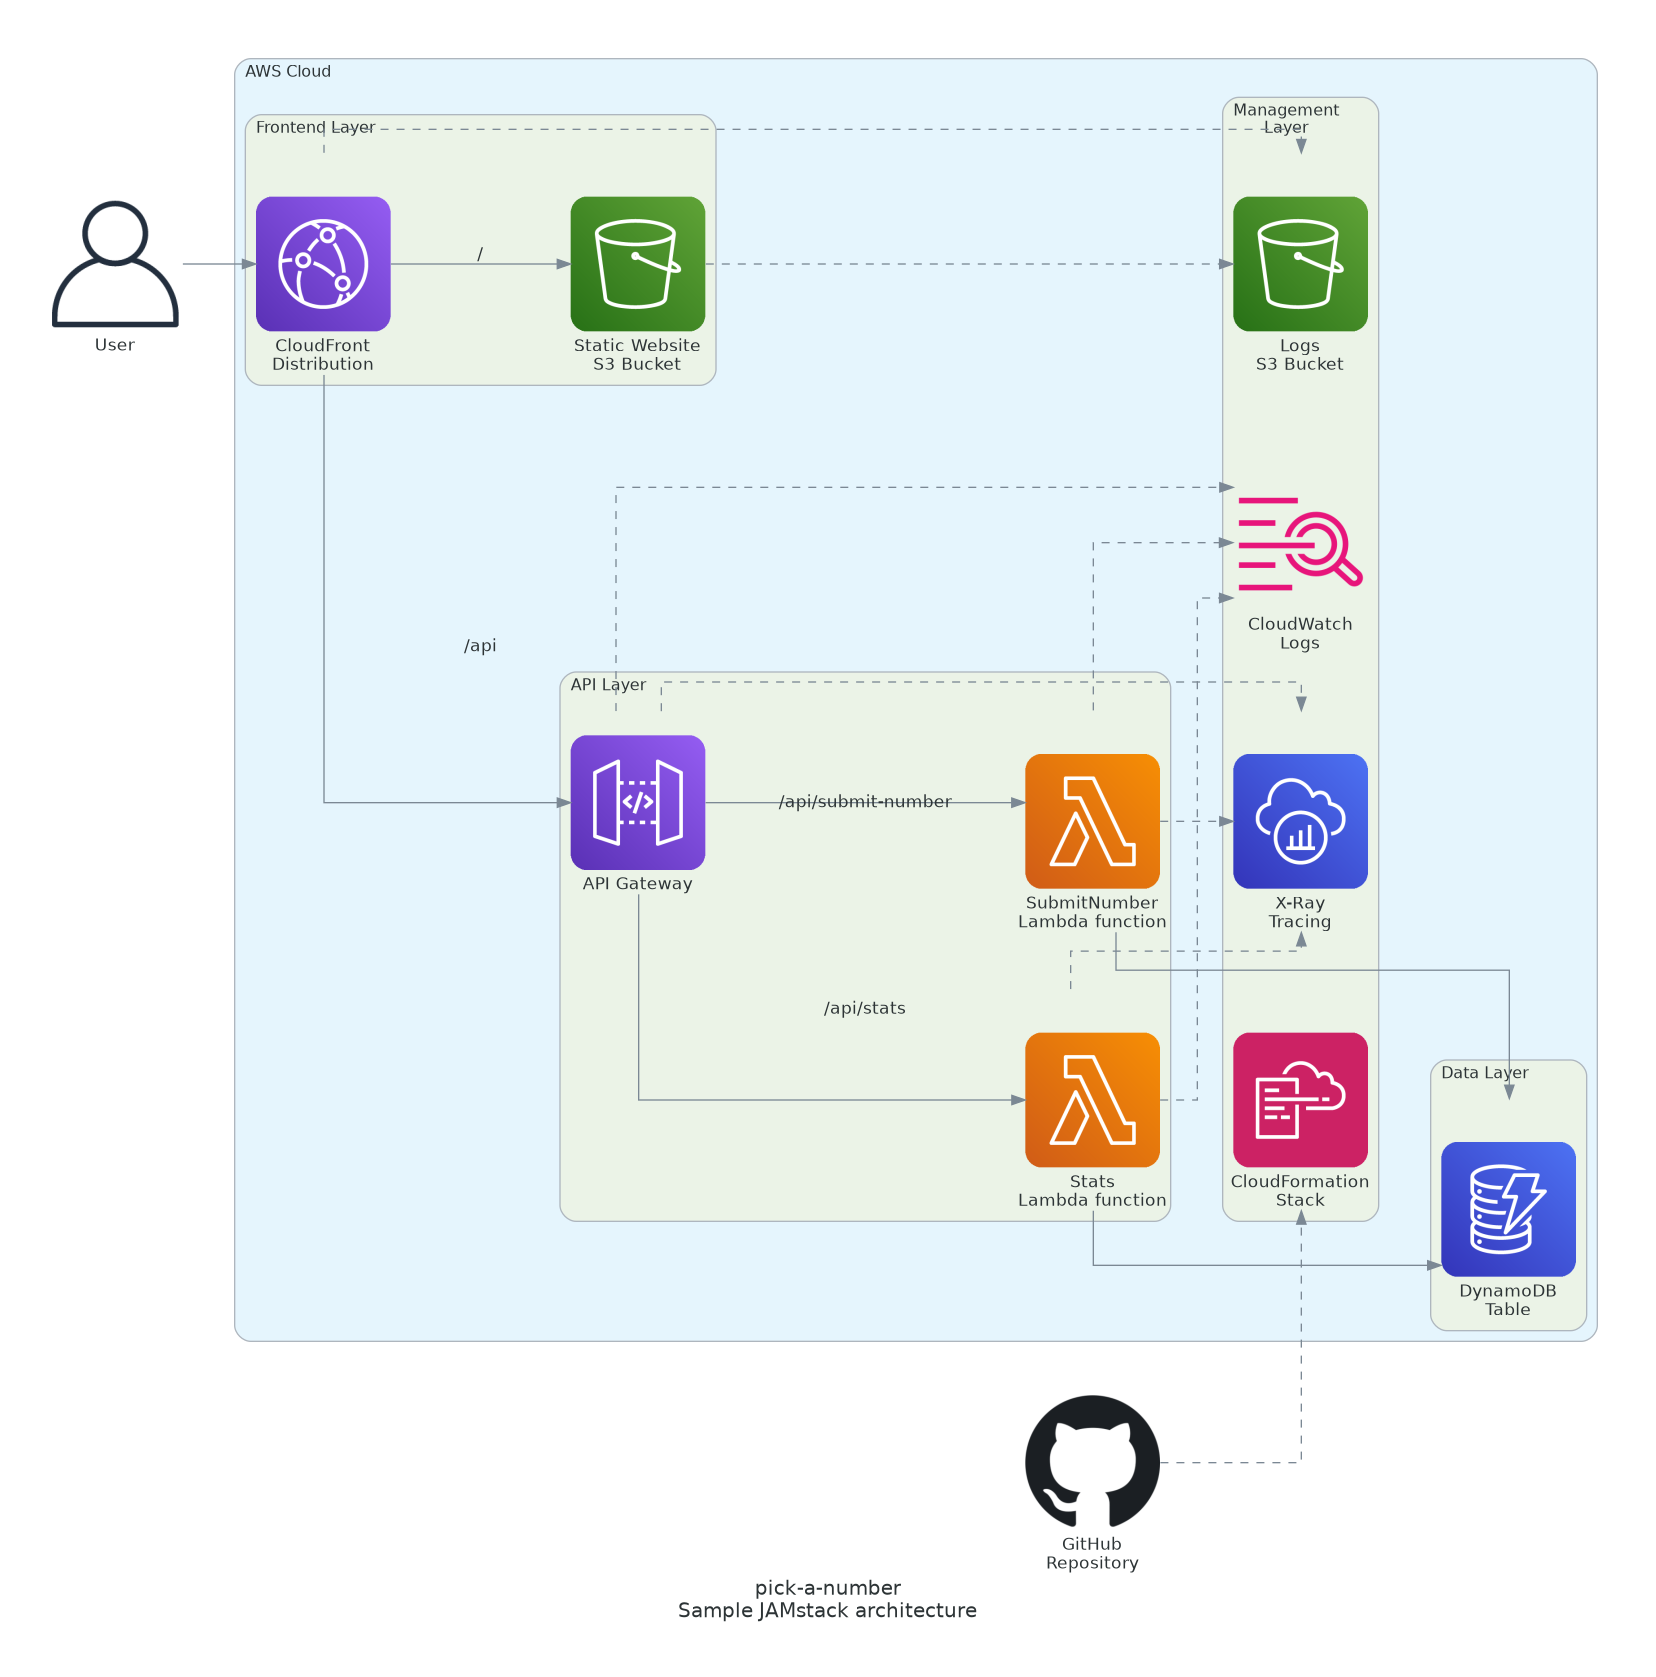
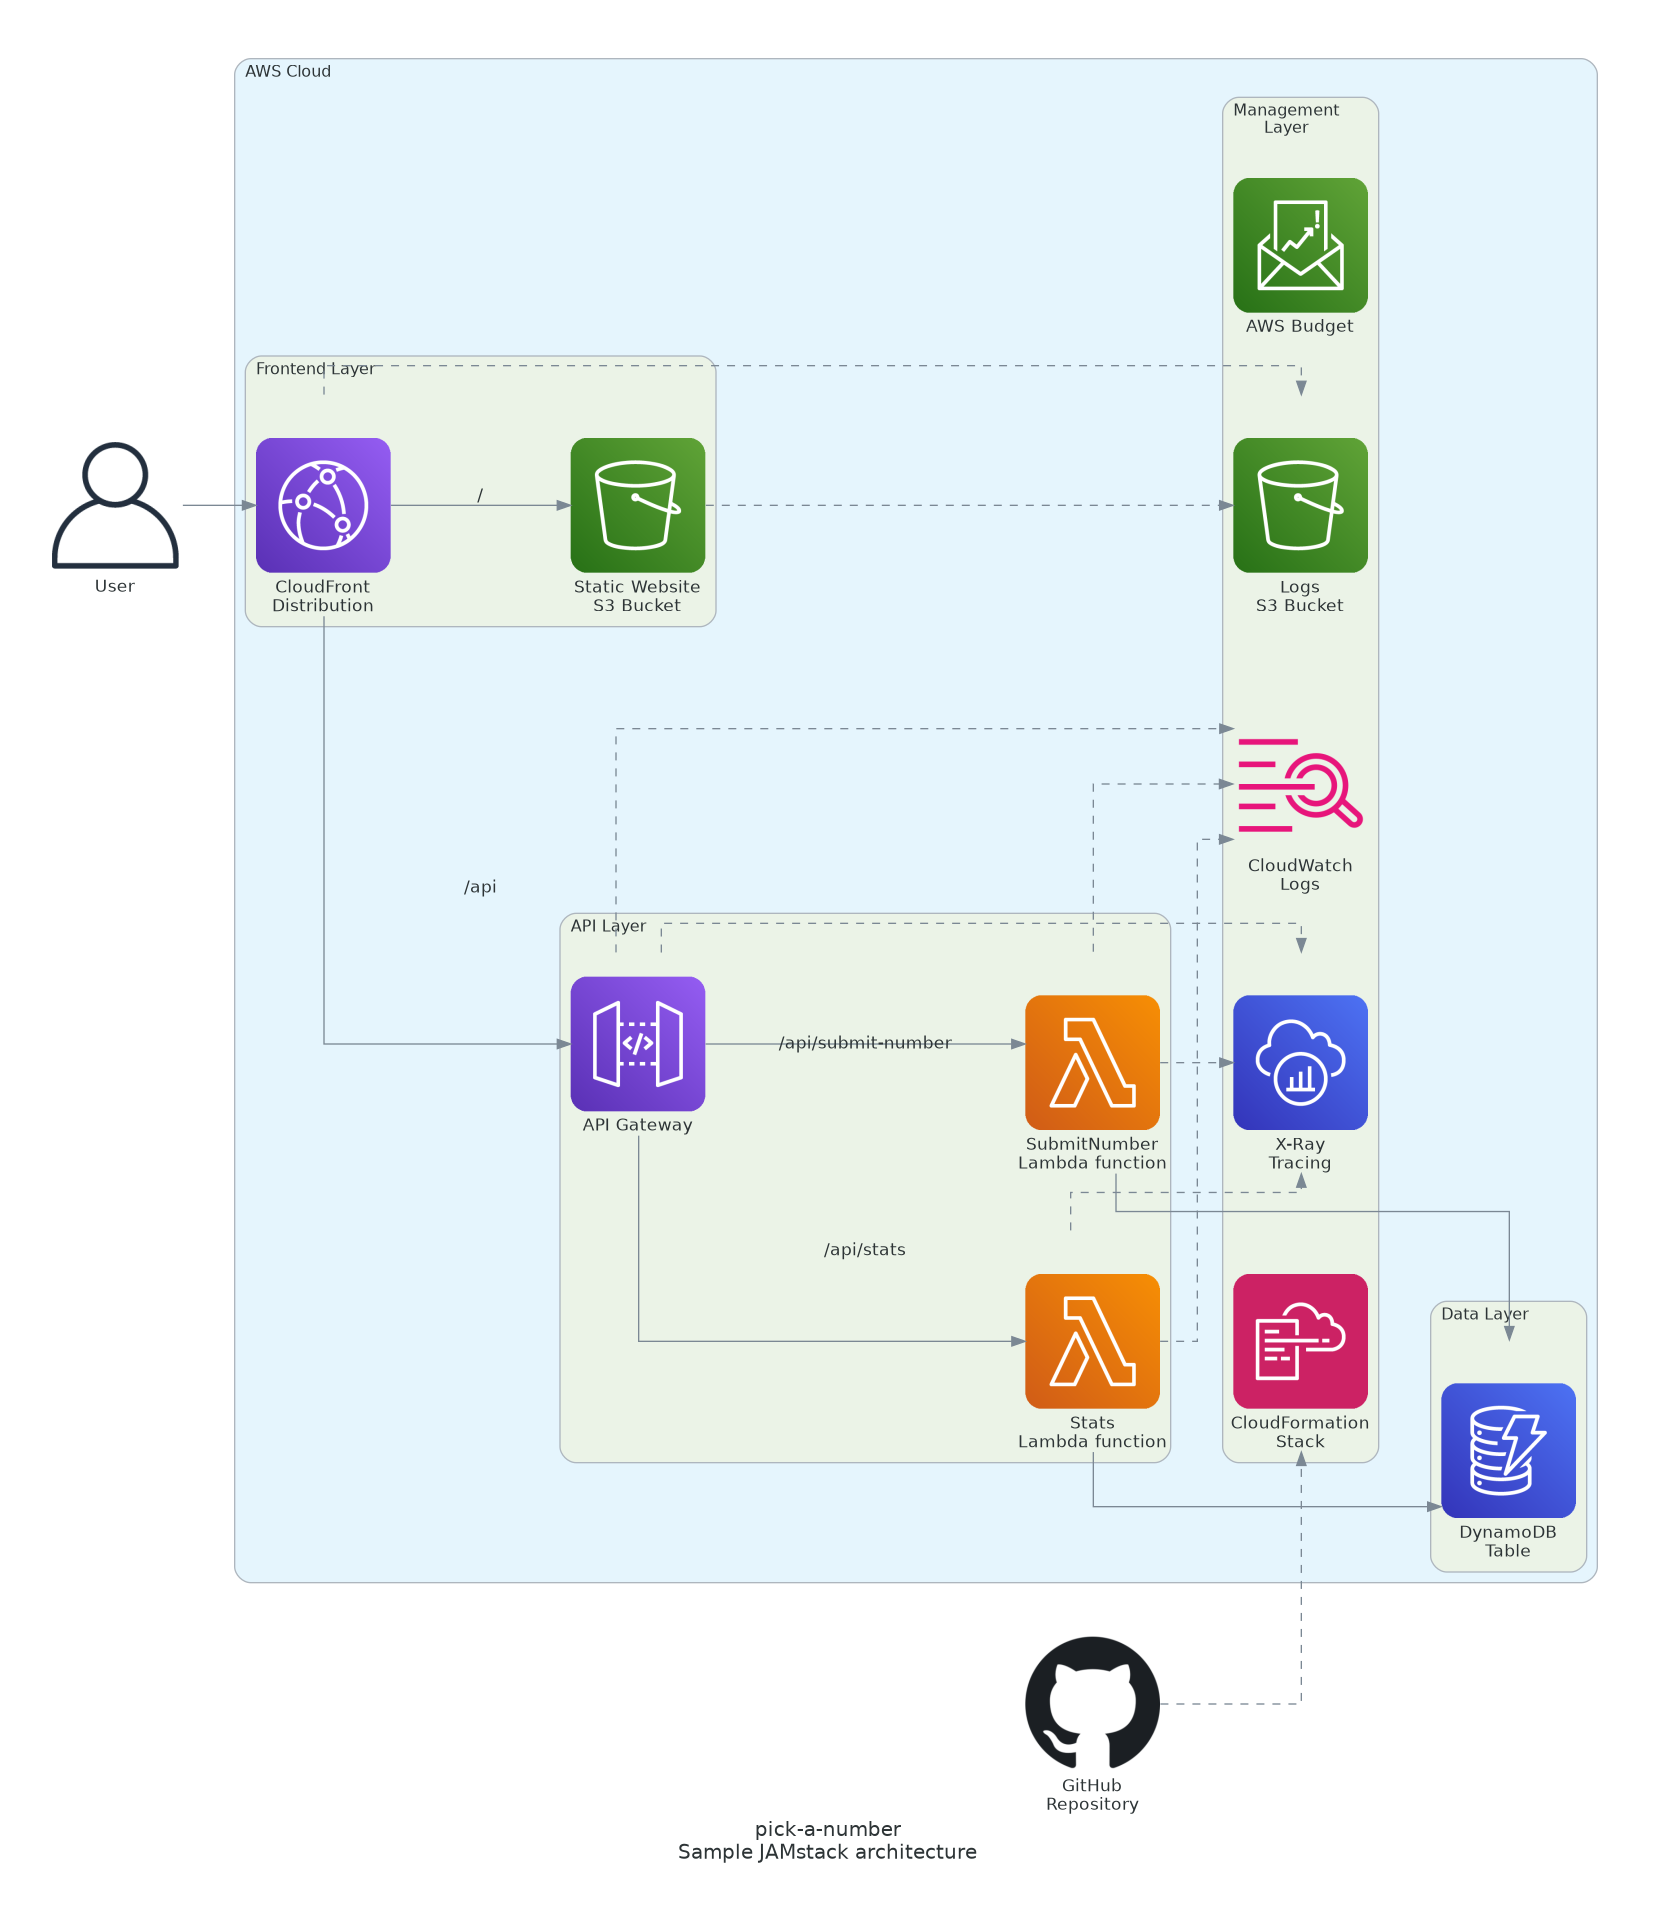
feat: diagram as code (#9)
- add python script that generates the architecture diagram
- add a requirements.txt

diff --git a/docs/diagrams/jamstack-architecture.py b/docs/diagrams/jamstack-architecture.py
@@ -1,0 +1,80 @@
+# Requirements
+# - graphviz installed on the system for rendering the diagram
+# - diagrams library installed in the Python environment (pip install diagrams)
+from diagrams import Cluster, Diagram, Edge
+from diagrams.aws.general import User
+from diagrams.aws.network import CloudFront
+from diagrams.aws.storage import S3
+from diagrams.aws.network import APIGateway
+from diagrams.aws.compute import Lambda
+from diagrams.aws.database import Dynamodb
+from diagrams.aws.management import CloudwatchLogs
+from diagrams.aws.devtools import XRay
+from diagrams.aws.management import Cloudformation
+from diagrams.onprem.vcs import Github
+from diagrams.aws.cost import Budgets
+
+graph_attr = {
+    "layout": "dot",
+    "compound": "true",
+    "pad": "0.5",
+}
+
+with Diagram(
+    "pick-a-number\nSample JAMstack architecture",
+    filename="../assets/jamstack-architecture",
+    show=False,
+    graph_attr=graph_attr,
+    direction="LR",
+):
+    user = User("User")
+    github = Github("GitHub\nRepository")
+
+    with Cluster("AWS Cloud", graph_attr={"pad": "2"}):
+
+        with Cluster("Frontend Layer"):
+            cloudfront = CloudFront("CloudFront\nDistribution")
+            s3 = S3("Static Website\nS3 Bucket")
+
+        with Cluster("API Layer"):
+            api_gateway = APIGateway("API Gateway")
+            submit_number_lambda = Lambda("SubmitNumber\nLambda function")
+            stats_lambda = Lambda("Stats\nLambda function")
+
+        with Cluster("Data Layer"):
+            dynamodb = Dynamodb("DynamoDB\nTable")
+
+        with Cluster("Management\nLayer"):
+            budget = Budgets("AWS Budget")
+            cloudformation = Cloudformation("CloudFormation\nStack")
+            cloudwatch = CloudwatchLogs("CloudWatch\nLogs")
+            logs = S3("Logs\nS3 Bucket")
+            xray = XRay("X-Ray\nTracing")
+
+    user >> cloudfront
+    cloudfront >> Edge(label="/", minlen="2") >> s3
+    cloudfront >> Edge(label="/api", minlen="2") >> api_gateway
+    (
+        api_gateway
+        >> Edge(label="/api/submit-number", minlen="2")
+        >> submit_number_lambda
+        >> Edge(minlen="2")
+        >> dynamodb
+    )
+    (
+        api_gateway
+        >> Edge(label="/api/stats", minlen="2")
+        >> stats_lambda
+        >> Edge(minlen="2")
+        >> dynamodb
+    )
+
+    api_gateway >> Edge(style="dashed") >> cloudwatch
+    api_gateway >> Edge(style="dashed") >> xray
+    cloudfront >> Edge(style="dashed") >> logs
+    github >> Edge(style="dashed") >> cloudformation
+    s3 >> Edge(style="dashed") >> logs
+    stats_lambda >> Edge(style="dashed") >> cloudwatch
+    stats_lambda >> Edge(style="dashed") >> xray
+    submit_number_lambda >> Edge(style="dashed") >> cloudwatch
+    submit_number_lambda >> Edge(style="dashed") >> xray
